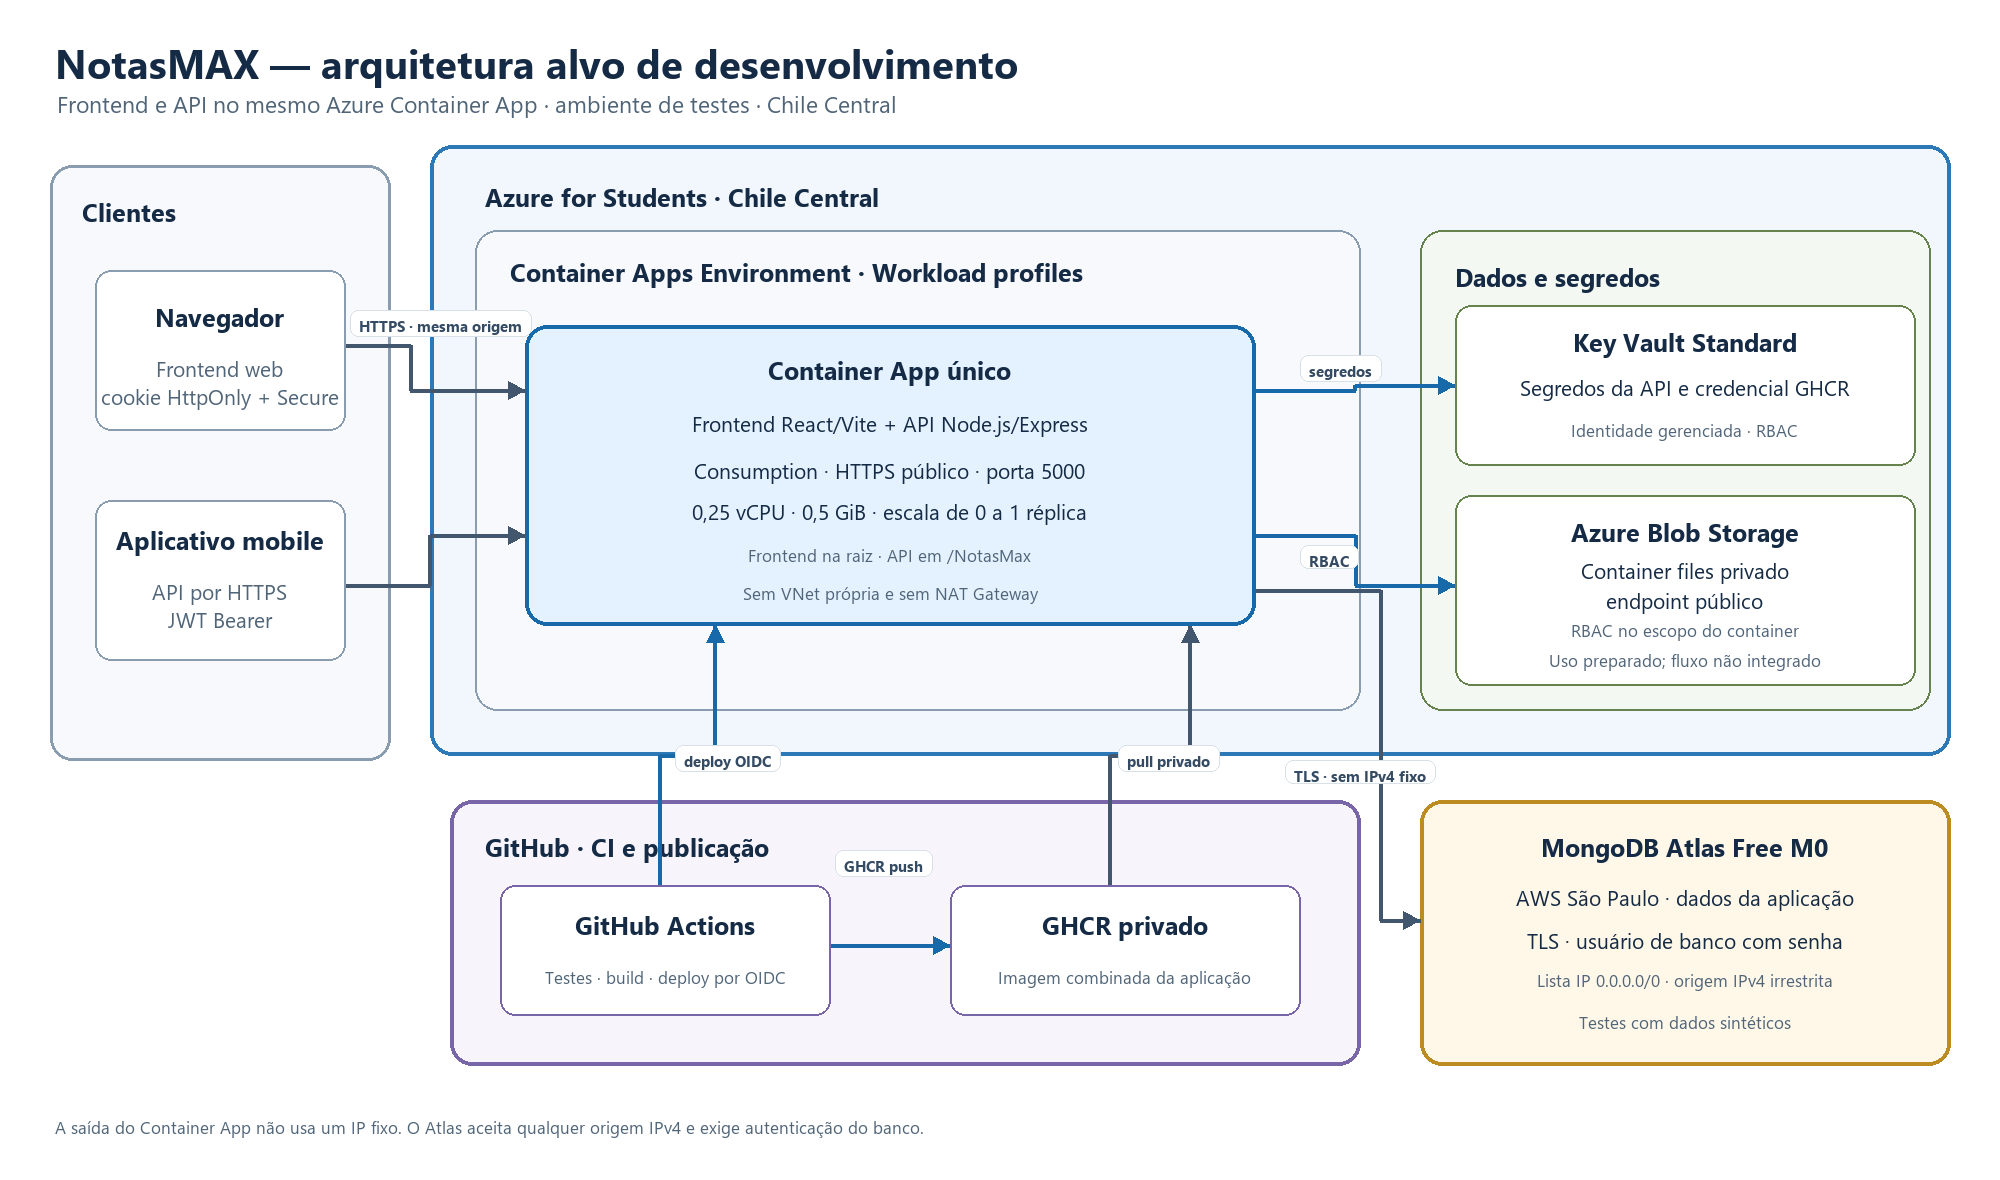
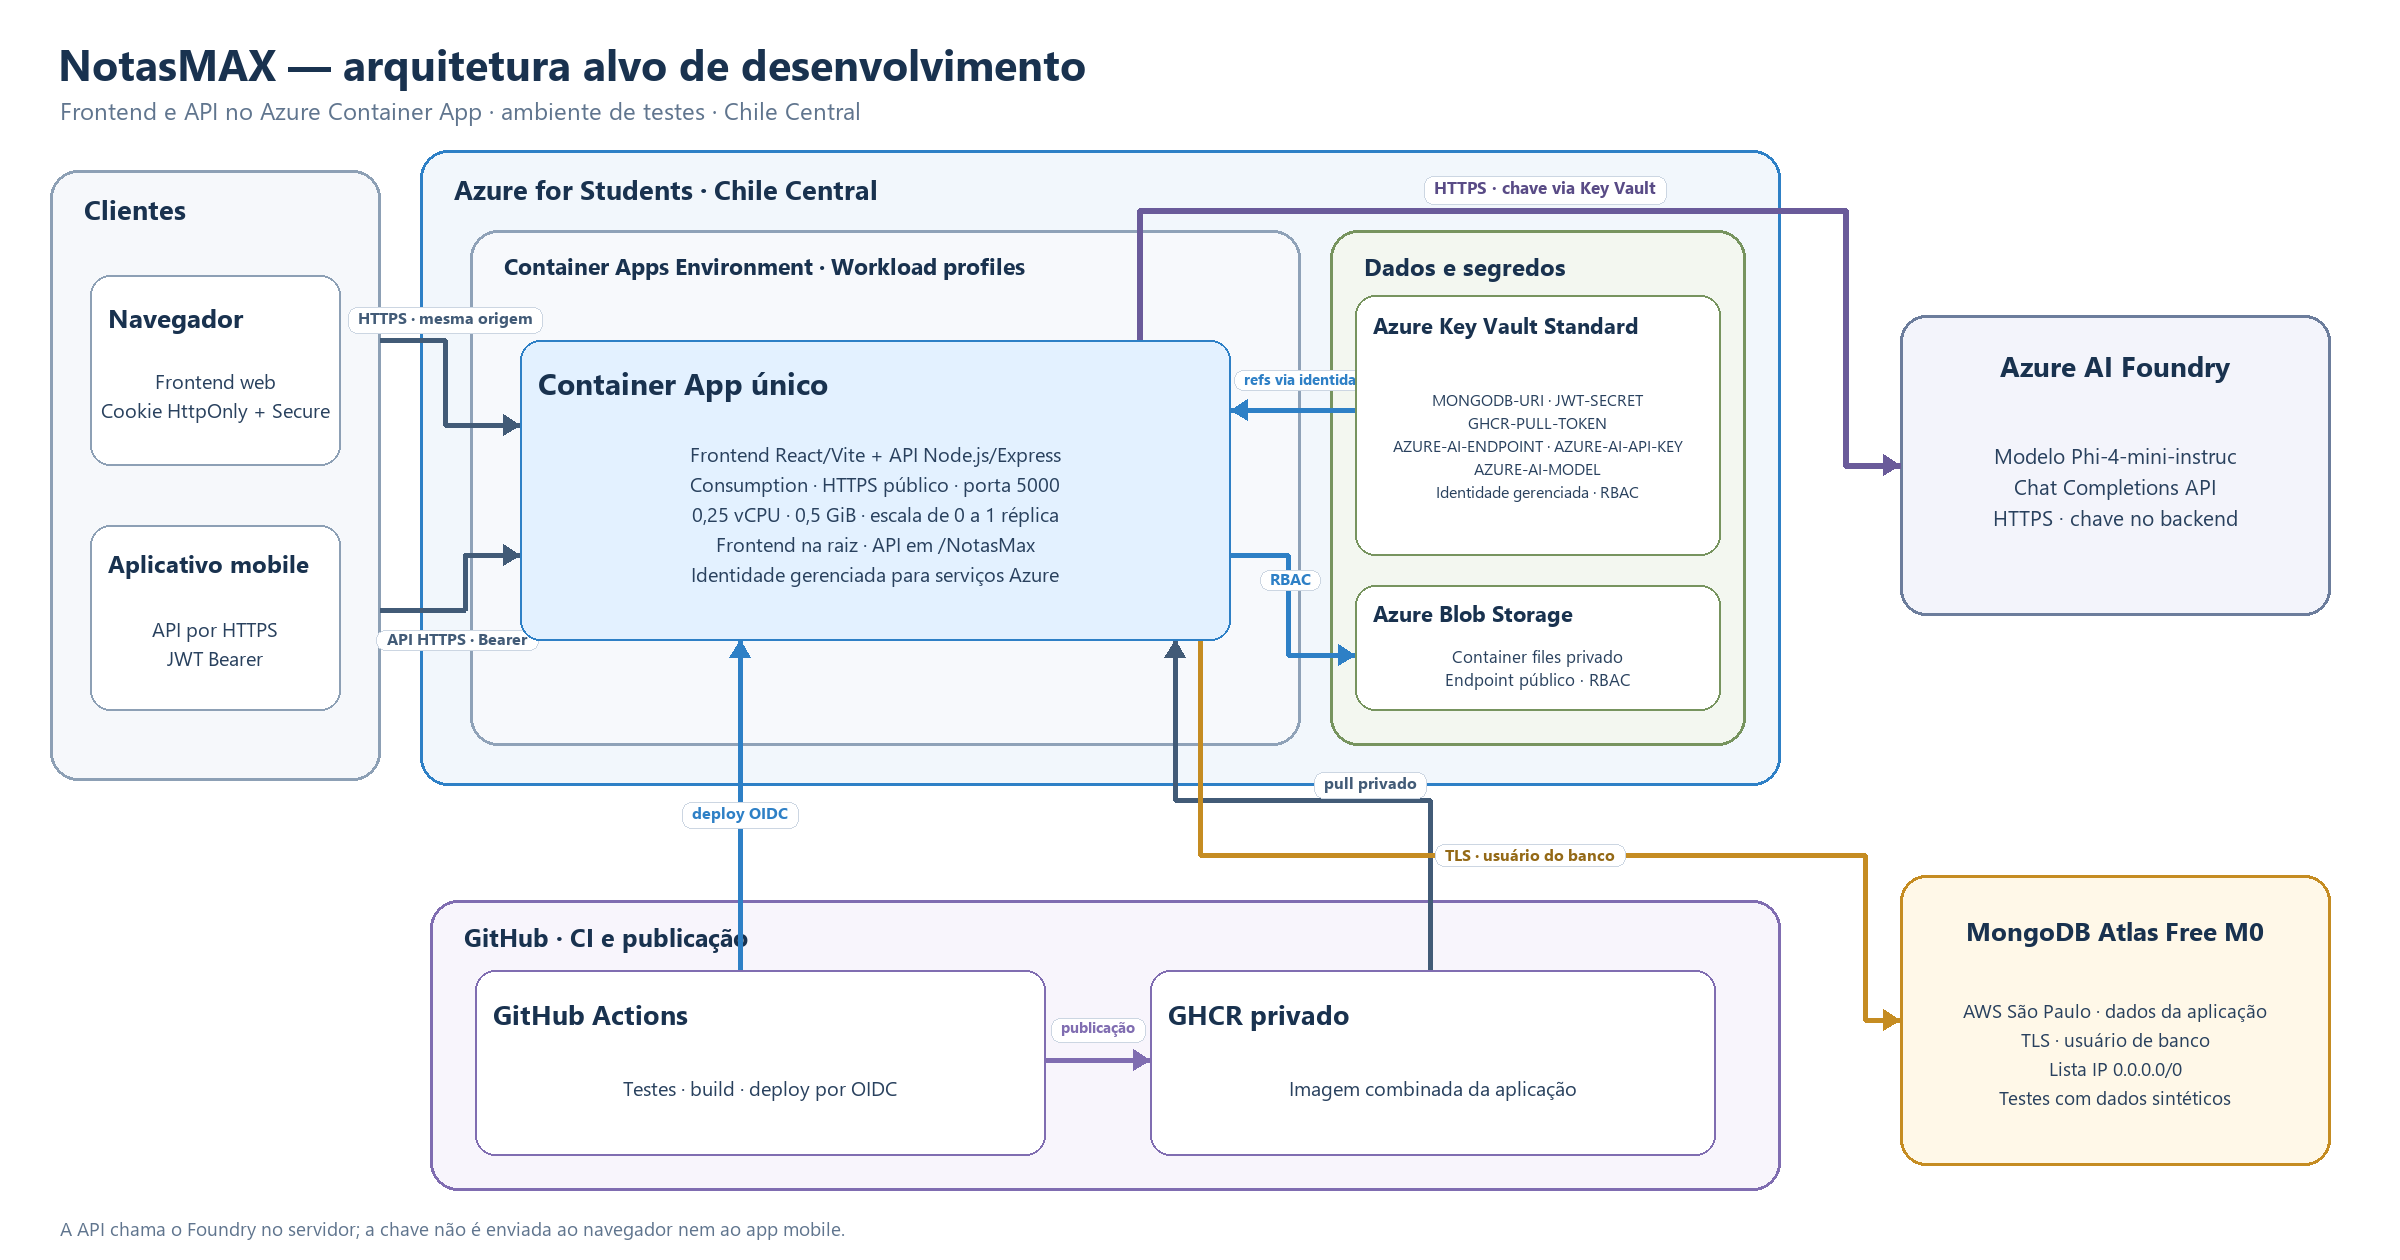
docs(azure): add Foundry integration architecture
- Map Key Vault values to API environment variables.

- Show the server-side Foundry Chat Completions flow.

- Document variable inference costs.

Changed region(s): [[0.0, 0.0305, 0.992, 1.0], [0.031, 0.6102, 0.155, 0.6407]]

diff --git a/arquitetura-azure/README.md b/arquitetura-azure/README.md
@@ -2,7 +2,7 @@
 
 Este documento descreve a arquitetura da aplicação. O frontend web e a API são publicados juntos em um Azure Container App, para manter a solução dentro dos recursos disponíveis na assinatura de estudante e reduzir componentes separados.
 
-O projeto prioriza a utilização de serviços gratuitos ou de baixo consumo consumo que pode ser coberto pelo Azure for Students e pelos limites incluídos no GitHub. 
+O projeto prioriza a utilização de serviços gratuitos ou de baixo consumo consumo que pode ser coberto pelo Azure for Students e pelos limites incluídos no GitHub.
 
 ## Arquitetura alvo de desenvolvimento
 
@@ -27,12 +27,13 @@ Fonte editável: [diagrama-arquitetura-atlas-free.mmd](diagrama-arquitetura-atla
 | Banco de dados | MongoDB Atlas Free M0, cluster na AWS em São Paulo, com usuário da aplicação restrito ao banco `NotasMax`. | US$ 0 dentro dos limites do M0. |
 | Arquivos | Azure Storage Account `Standard_LRS`, camada Hot, região Chile Central; container `files` privado. O acesso da API usa identidade gerenciada e RBAC no escopo do container. | Variável conforme capacidade, operações e tráfego. A integração de arquivos ainda não é utilizada pelo fluxo atual da aplicação. |
 | Segredos | Azure Key Vault Standard, região Chile Central. A identidade gerenciada do Container App tem acesso de leitura aos segredos necessários. | Variável conforme as operações. |
+| IA generativa | Azure AI Foundry, modelo `Phi-4-mini-instruc`, chamado no servidor pela API do Container App. A chave e a configuração do endpoint ficam no Key Vault. | Depende do modelo, da modalidade de implantação e do uso de tokens; não está incluído na estimativa-base. |
 
 ### Por que Chile Central
 
-Escolhemos o Chile Central pois foi a região mais próxima do banco disponivel na conta de estudante. O Azure também listava Brazil South, em São Paulo, mas o mesmo não estava disponivel para a assinatura no momento da criação dos recursos. 
+Escolhemos o Chile Central pois foi a região mais próxima do banco disponivel na conta de estudante. O Azure também listava Brazil South, em São Paulo, mas o mesmo não estava disponivel para a assinatura no momento da criação dos recursos.
 
-O Atlas M0 usado pelo projeto está na AWS em São Paulo (`sa-east-1`). Assim, as chamadas da API até o banco cruzam regiões e provedores de nuvem pela rede pública, protegidas por TLS. Essa distância acaba podendo acrescentar latência e custos variáveis de transferência. 
+O Atlas M0 usado pelo projeto está na AWS em São Paulo (`sa-east-1`). Assim, as chamadas da API até o banco cruzam regiões e provedores de nuvem pela rede pública, protegidas por TLS. Essa distância acaba podendo acrescentar latência e custos variáveis de transferência.
 
 Porém a escolha atual priorizou utilizar os recursos de baixo custos ou gratuitos.
 
@@ -58,11 +59,26 @@ Com a URI obtida por meio do segredo `MONGODB-URI`, a API conecta-se ao endpoint
 
 O endpoint do Blob Storage é público para permitir conectividade sem VNet própria, mas o container `files` é privado e não permite leitura anônima. A identidade do Container App precisa ser autorizada pelo RBAC para acessar os blobs. O navegador e o app mobile não acessam o Blob diretamente.
 
+#### Inferência com Azure AI Foundry
+
+Na arquitetura alvo, somente a API no Container App chama o endpoint HTTPS de chat completions do Azure AI Foundry, usando o modelo `Phi-4-mini-instruc`. A chamada é feita no servidor com a chave de API no cabeçalho `api-key`; o navegador e o app mobile chamam apenas a API NotasMAX e nunca recebem a chave.
+
+O Container App usa sua identidade gerenciada atribuída pelo sistema e referências do Key Vault para disponibilizar a configuração ao processo da API:
+
+| Segredo no Key Vault | Variável de ambiente da API |
+|---|---|
+| `AZURE-AI-ENDPOINT` | `AZURE_AI_ENDPOINT` |
+| `AZURE-AI-API-KEY` | `AZURE_AI_API_KEY` |
+| `AZURE-AI-MODEL` | `AZURE_AI_MODEL` |
+
+A API envia o conteúdo da solicitação diretamente ao serviço Foundry por HTTPS. A chave permanece no backend e não deve ser incluída no bundle do frontend, no app mobile, no repositório ou nos logs. O modelo e o endpoint são valores de configuração mantidos no Key Vault junto da chave.
+
 ### Aplicação, autenticação e segredos
 
 - A aplicação web e a API são entregues pela mesma imagem e pelo mesmo Container App.
 - O site usa sessão por cookie `HttpOnly`, `Secure` e `SameSite=Lax`; a API aceita também JWT Bearer para os clientes mobile.
-- `MONGODB-URI`, `JWT-SECRET` e a credencial de leitura do GHCR ficam no Key Vault e não foram incluídas no código-fonte ou em configurações públicas.
+- `MONGODB-URI`, `JWT-SECRET`, a credencial de leitura do GHCR e os valores `AZURE-AI-ENDPOINT`, `AZURE-AI-API-KEY` e `AZURE-AI-MODEL` ficam no Key Vault; seus valores não são incluídos no código-fonte ou em configurações públicas.
+- A identidade gerenciada do Container App lê os segredos do Key Vault por RBAC; referências da Container App os mapeiam para variáveis de ambiente somente no container da API.
 - O GitHub Actions autentica no Azure por OIDC usando identidade de publicação separada, com permissão limitada à atualização do Container App. Essa identidade de publicação não é a identidade usada pela aplicação durante a execução.
 - O acesso ao Atlas é feito com um usuário de banco separado da conta usada para entrar no painel Atlas. A política de rede `/0` não substituiu a autenticação do banco.
 
@@ -70,7 +86,7 @@ O endpoint do Blob Storage é público para permitir conectividade sem VNet pró
 
 Uma atribuição RBAC combina três partes: **identidade** (quem acessa), **função** (quais operações pode fazer) e **escopo** (em quais recursos a função vale). Restringir o escopo reduz o alcance de uma permissão se uma identidade for usada indevidamente.
 
-Neste ambiente, a identidade gerenciada do Container App pode ler segredos no Key Vault por meio de `Key Vault Secrets User`. No Storage, `Storage Blob Data Contributor` vale apenas para o container `files`, não para toda a assinatura nem para outros containers. A identidade de publicação do GitHub é diferente: o OIDC autentica o workflow no Azure, e a função atribuída permite atualizar o Container App. Esses acessos do Azure são independentes do controle do MongoDB Atlas, que continua usando seu usuário de banco e a própria lista de acesso de rede.
+Neste ambiente, a identidade gerenciada do Container App pode ler segredos no Key Vault por meio de `Key Vault Secrets User`. Isso inclui a chave usada pela API para chamar o Foundry; o serviço Foundry não recebe acesso ao Key Vault. No Storage, `Storage Blob Data Contributor` vale apenas para o container `files`, não para toda a assinatura nem para outros containers. A identidade de publicação do GitHub é diferente: o OIDC autentica o workflow no Azure, e a função atribuída permite atualizar o Container App. Esses acessos do Azure são independentes do controle do MongoDB Atlas, que continua usando seu usuário de banco e a própria lista de acesso de rede.
 
 ### Limitações da assinatura de estudante
 
@@ -85,11 +101,12 @@ O tamanho atual de 0,25 vCPU e 0,5 GiB, com no máximo uma réplica, atende ao o
 | Azure Container Apps Consumption | US$ 0 enquanto dentro das franquias aplicáveis | Cada assinatura recebe por mês 180.000 vCPU-segundos, 360.000 GiB-segundos e 2 milhões de solicitações HTTP externas sem custo. Com 0,25 vCPU e 0,5 GiB, as franquias de CPU e memória equivalem, cada uma, a aproximadamente 200 horas de uma réplica ativa por mês (cerca de 46 horas por semana), se não forem consumidas por outras aplicações da assinatura. Quando a aplicação está em zero réplicas, não há cobrança de computação. O excedente é cobrado por consumo. |
 | MongoDB Atlas Free M0 | US$ 0 | Dentro dos limites do plano Free. O M0 tem limites próprios de capacidade, disponibilidade de regiões e recursos de rede. |
 | GHCR | US$ 0 atualmente para armazenamento e transferência de imagens de Container Registry | A política atual do GitHub informa que armazenamento e transferência do Container Registry são gratuitos. Uso do GitHub Actions e artefatos continua sujeito às cotas do plano. |
+| Azure AI Foundry | Variável | A cobrança varia conforme o consumo do  modelo |
 | Azure Blob Storage | Variável | Cobrança depende de GB armazenados por mês, operações, transferência, redundância e região. A aplicação ainda não usa o container em um fluxo de arquivos. |
 | Azure Key Vault | Variável | Cobrança depende do número e tipo de operações. |
 | Transferência de dados | Variável | Pode depender do volume servido aos navegadores e clientes mobile e da comunicação entre Azure Chile Central e Atlas na AWS São Paulo. |
 
-**Estimativa-base:** US$ 0 por semana nas camadas com franquia ou plano gratuito, desde que os limites não sejam excedidos. O custo total não pode ser fechado sem medir armazenamento, operações do Key Vault, transferência e consumo compartilhado da assinatura por um longo período. A conta de estudante pode cobrir cobranças elegíveis enquanto houver crédito aplicável, mas isso não altera as restrições de serviço e região.
+**Estimativa-base da infraestrutura sem inferência de IA:** US$ 0 por semana nas camadas com franquia ou plano gratuito, desde que os limites não sejam excedidos. As chamadas ao Foundry não estão incluídas: o custo pode variar com o modelo, a implantação e os tokens de entrada e saída. O custo total também depende de armazenamento, operações do Key Vault, transferência e consumo compartilhado da assinatura. A conta de estudante pode cobrir cobranças elegíveis enquanto houver crédito aplicável, mas isso não altera as restrições de serviço e região.
 
 ## Referências oficiais
 
@@ -104,6 +121,10 @@ O tamanho atual de 0,25 vCPU e 0,5 GiB, com no máximo uma réplica, atende ao o
 - [Escalonamento e réplicas no Azure Container Apps](https://learn.microsoft.com/en-us/azure/container-apps/scale-app)
 - [Identidade e segurança no Azure Container Apps](https://learn.microsoft.com/en-us/azure/container-apps/security)
 - [Segredos do Key Vault no Container Apps](https://learn.microsoft.com/en-us/azure/container-apps/manage-secrets)
+- [Variáveis de ambiente do Container Apps](https://learn.microsoft.com/en-us/azure/container-apps/environment-variables)
+- [API de chat completions do Azure AI Foundry](https://learn.microsoft.com/en-us/azure/foundry/openai/latest)
+- [Opções de implantação de modelos no Foundry](https://learn.microsoft.com/en-us/azure/foundry/concepts/deployments-overview)
+- [Custos de modelos no Foundry](https://learn.microsoft.com/en-us/azure/foundry/concepts/manage-costs)
 - [Visão geral do Azure RBAC](https://learn.microsoft.com/en-us/azure/role-based-access-control/overview)
 - [Escopo das atribuições RBAC](https://learn.microsoft.com/en-us/azure/role-based-access-control/scope-overview)
 - [Preços do Azure Container Apps](https://azure.microsoft.com/en-us/pricing/details/container-apps/)
